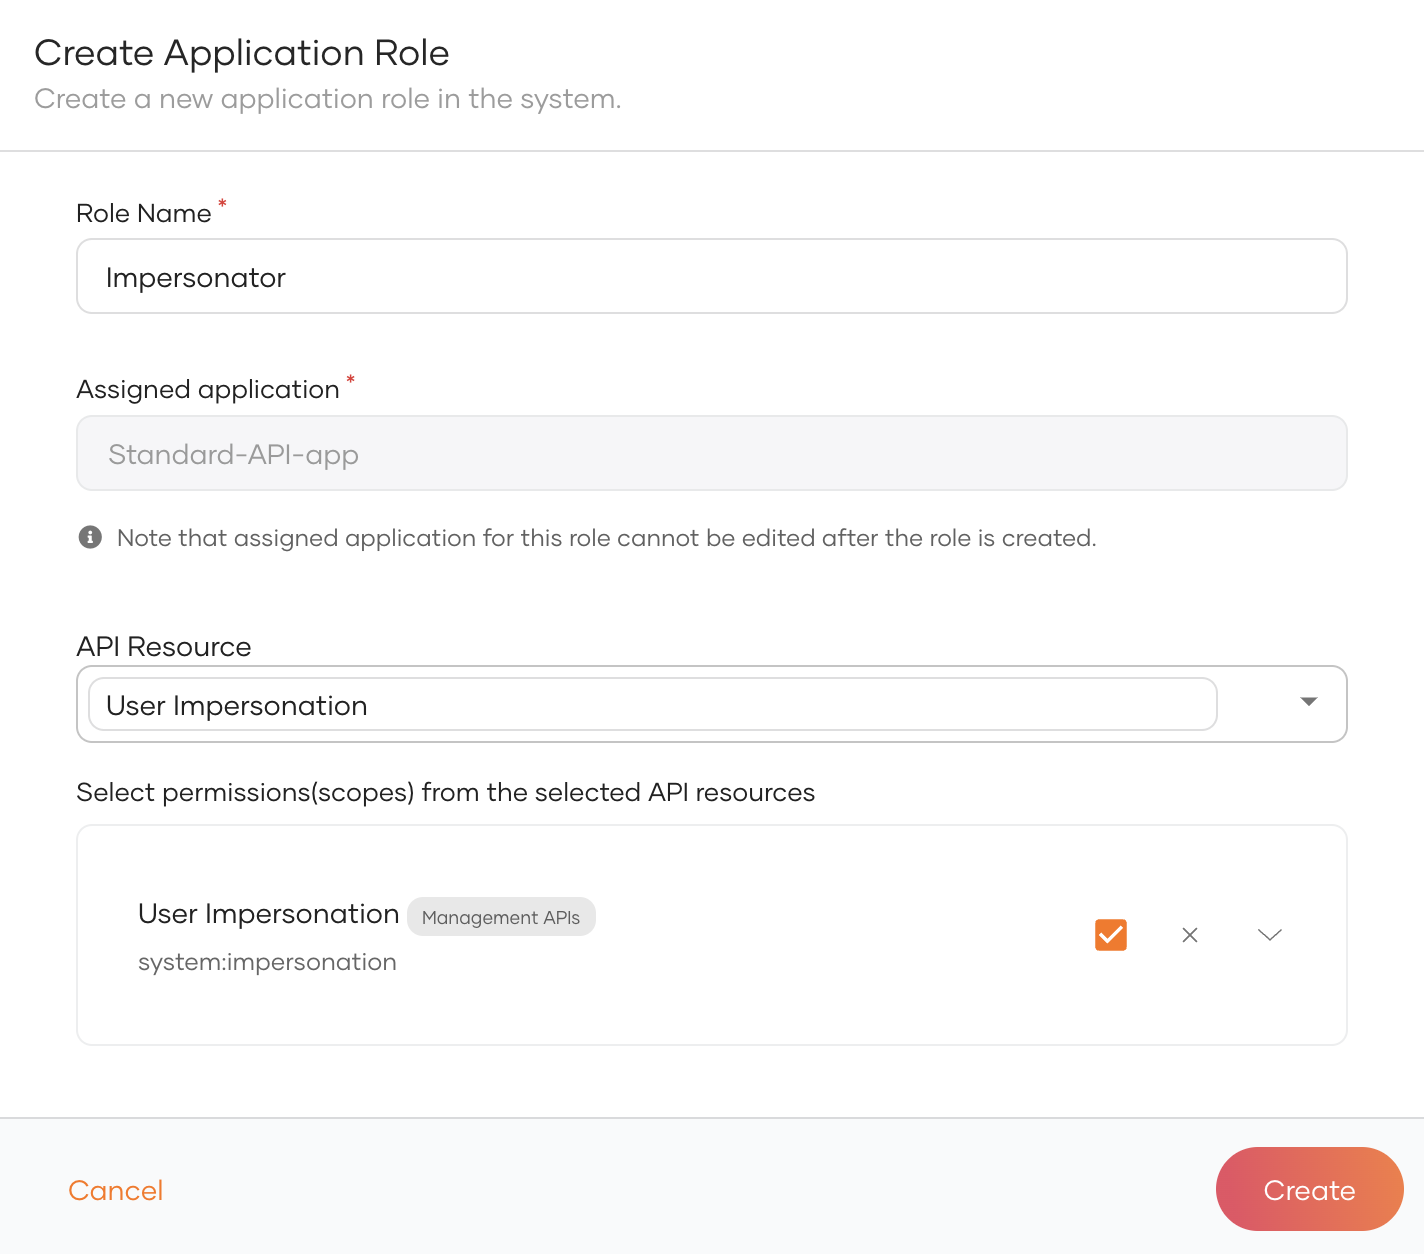
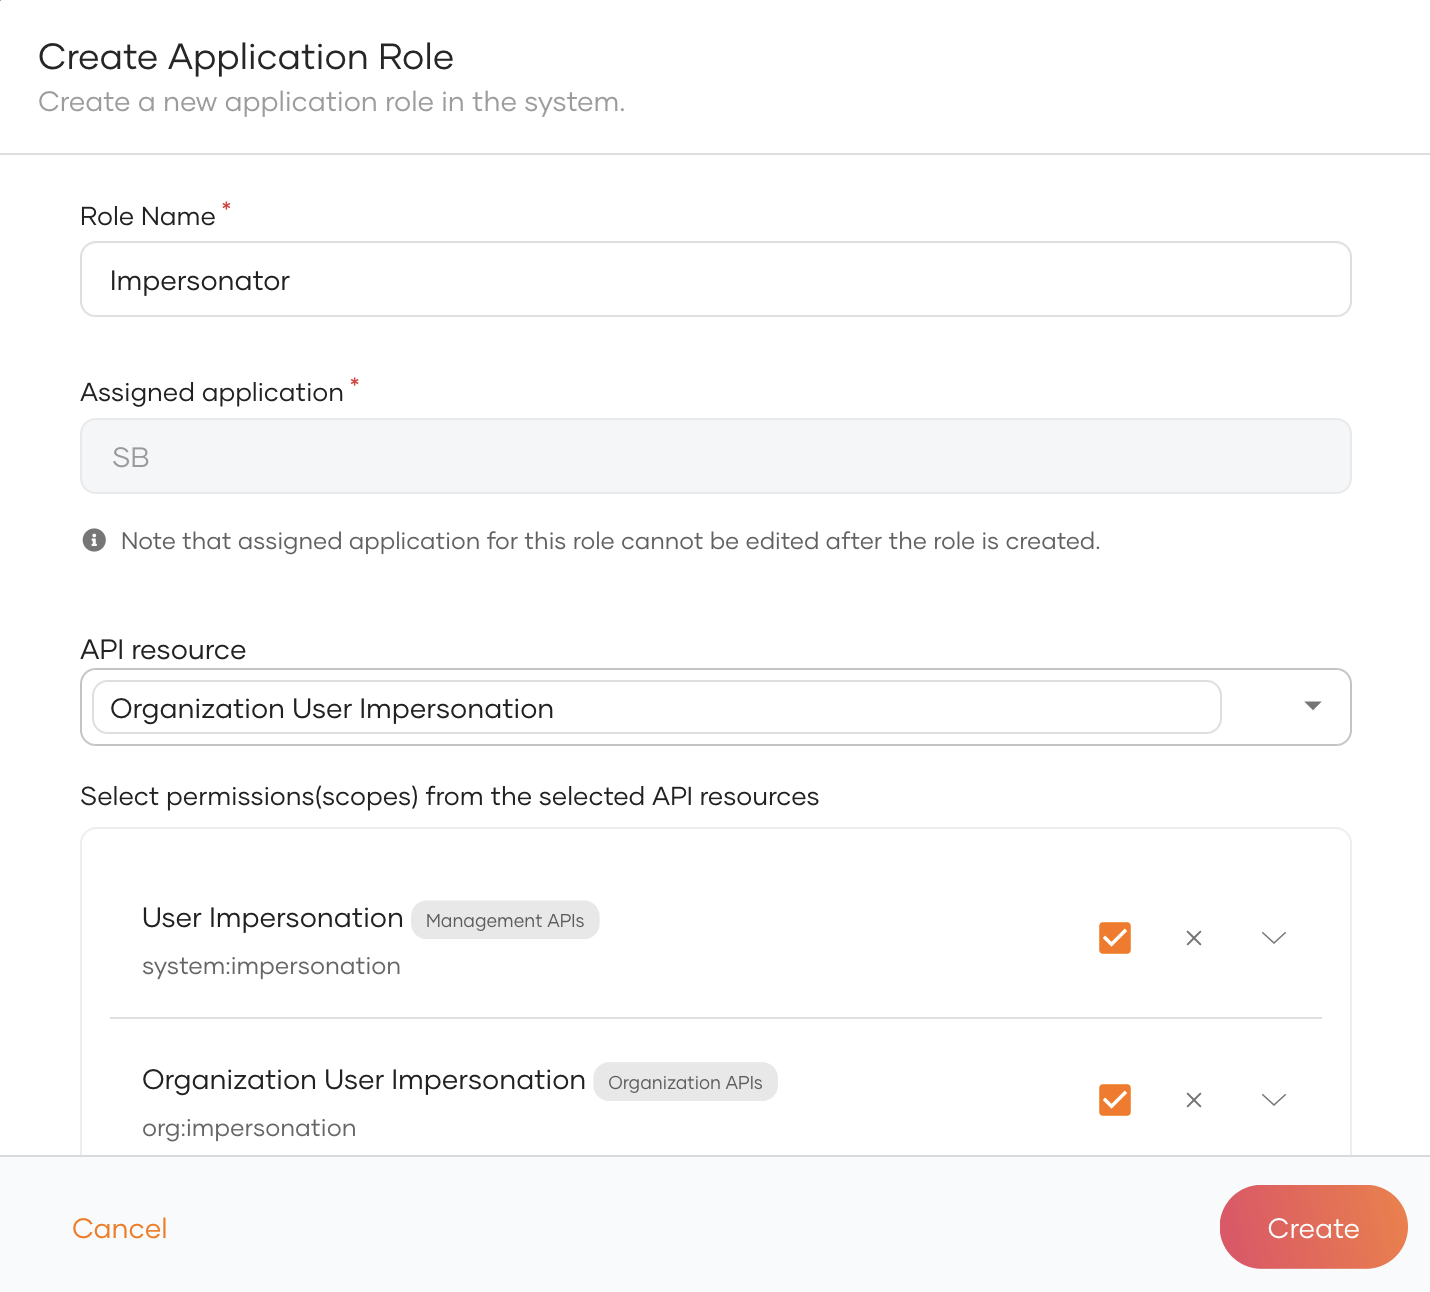
Add sub org impersonation docs.

diff --git a/en/includes/guides/authorization/user-impersonation/user-impersonation.md b/en/includes/guides/authorization/user-impersonation/user-impersonation.md
@@ -52,21 +52,89 @@ With the required permissions in place, the impersonator can now impersonate ano
 
     ![User Impersonate Button]({{base_path}}/assets/img/guides/authorization/impersonation/user-impersonate-button.png)
 
-4. You should now be logged into the **My Account** application as the impersonated user.
+4. You will log into **My Account** application as the impersonated user.
 
     ![Discoverable Applications]({{base_path}}/assets/img/guides/authorization/impersonation/impersonated-myaccount-no-applications.png)
 
 5. The **My Account** portal shows all business applications that the impersonator can access as the impersonated user. Launch any application to log in as that user.
 
-    !!! note "Display applications in the My Account portal"
+    !!! note "Display applications in the **My Account** portal"
 
-        To make an application discoverable in the My Account portal for impersonators, you need to both enable impersonation for the application and mark it as discoverable. See [Configure business applications for impersonation](#configure-business-applications-for-impersonation) for instructions.
+        To make an application discoverable in the **My Account** portal for impersonators, you need to both enable impersonation for the application and mark it as discoverable. See [Configure business applications for impersonation](#configure-business-applications-for-impersonation) for instructions.
+
+## Impersonate users in a sub organization
+
+Sub organization administrators also impersonate users within their organization by following these steps:
+
+1. Share **My Account** with the required organization.
+2. Assign users with Impersonation Access.
+
+    !!! note "Limitations"
+        Sub organization impersonation doesn't support the following use cases.
+        
+        - Invited parent org user impersonating a sub organization user.
+        - Sub organization user impersonating a invited parent org user.
+
+### Step 1: Share **My Account** with the required organization
+
+1. Login to the root organization on the {{product_name}} Console.
+
+2. Go to Applications and on the top of the page, select the Settings icon corresponding to My Account.
+
+3. Go to its Shared Access tab and do one of the following:
+    - Select Share with all organizations for the application to share with all existing organizations and new organizations you may create in the future.
+
+    - Select Share with only selected organizations and select the relevant organizations.
+
+4. Click Update to save the changes.
+
+### Step 2: Assign users with Impersonation Access
+
+Follow the steps below to assign the right permissions to the impersonator.
+
+1. Switch to the Sub organization.
+
+    1. Login to your organization (root) from the **{{product_name}} Console**.
+
+    2. On the {{product_name}} Console, go to Organization Management > Organizations.
+
+    3. Click the Switch icon next to the organization name to switch to its console.
+
+2. The impersonator should have the **Impersonator** role assigned. To do so,
+
+    1. On the {{product_name}} Sub Organization Console, go to **Users** > **Roles**.
+
+    2. Select the **Impersonator** application role that has **My Account** as its audience.
+
+    3. Go to the **Users** tab and add the user's name under **Assigned Users**.
+
+    4. Click **Update** to save the changes.
+
+3. The impersonator also needs administrator permissions for the Console. If this user doesn't already have them,
+
+    1. On the {{product_name}} Console, go to **Console Settings**.
+
+    2. Under the **Administrators** tab, click **Add Administrators**.
+
+    3. Enter the user's username and assign the **Administrator** role.
+
+    4. Click **Add**.
+
+### Step 3: Perform Impersonation
+
+1. Log in to the sub organization Console using the business user credentials.
+
+2. Go to the Users tab.
+
+3. Locate and select the user to impersonate.
+
+4. Click Impersonate User.
 
 ## Configure business applications for impersonation
 
 To let an impersonator access a business application as another user, you need to enable impersonation for that app. This section shows you how to set it up.
 
-### Step 1: Authorize application to use the impersonation API
+### Step 1: Allow application to use the impersonation API
 
 By following the steps below, you permit a business application to use the impersonation API.
 
@@ -74,7 +142,7 @@ By following the steps below, you permit a business application to use the imper
 
 2. Select your application and go to its **API Authorization** tab.
 
-3. Click **Authorize an API Resource** and do the following:
+3. Click **allow an API Resource** and do the following:
 
     1. Under **API Resource**, select **User Impersonation**.
 
@@ -82,7 +150,17 @@ By following the steps below, you permit a business application to use the imper
 
     3. Click **Finish**.
 
-    ![Authorize impersonation API]({{base_path}}/assets/img/guides/authorization/impersonation/api-authorization-impersonation.png){: width="600" style="display: block; margin: 0; border: 0.3px solid lightgrey;"}
+        ![Authorize impersonation API]({{base_path}}/assets/img/guides/authorization/impersonation/api-authorization-impersonation.png){: width="600" style="display: block; margin: 0; border: 0.3px solid lightgrey;"}
+
+    4. Enable user impersonation for sub organization user by registering ***Organization User Impersonation** API resource. (Optional)
+
+        1. Under **API Resource**, select **Organization User Impersonation**.
+
+        2. Under **Authorized Scopes**, select **User Impersonation Scope for Organizations**.
+
+        3. Click **Finish**.
+
+            ![Authorize org impersonation API]({{base_path}}/assets/img/guides/authorization/impersonation/org-api-authorization-impersonation.png){: width="600" style="display: block; margin: 0; border: 0.3px solid lightgrey;"}
 
 ### Step 2: Create an application role that permits impersonation
 
@@ -102,7 +180,7 @@ To do so,
 
     1. Provide a suitable role name.
 
-    2. Under **API Resource**, select **User Impersonation**.
+    2. Under **API Resource**, select **User Impersonation**. If planning to allow impersonation for sub organizations, select Organization User Impersonation resource as well.
 
     3. Select the checkbox corresponding to **User Impersonation** to select its scopes.
 
@@ -145,6 +223,10 @@ To make an application discoverable,
 2. Under the **General** tab, check the **Discoverable application** checkbox.
 
 3. Click **Update** to save the changes.
+
+### Step 4: Share Application with Sub Organization(Optional)
+
+To allow impersonating sub organization users, share the business applications with the relevant organization. Use the [documentation here]({{base_path}}/guides/organization-management/share-applications/#share-a-registered-application) to proceed with configuring.
 
 ## Access logs related to user impersonation
 

diff --git a/en/includes/guides/authorization/user-impersonation/user-impersonation-via-business-app.md b/en/includes/guides/authorization/user-impersonation/user-impersonation-via-business-app.md
@@ -46,7 +46,7 @@ To do so,
 
 3. Under **Role Audience**, select **Application**. This sets the audience of this role to the current application.
 
-3. Click **New Role** and do the following:
+4. Click **New Role** and do the following:
 
     1. Provide a suitable role name.
 
@@ -88,15 +88,15 @@ The subject token contains information about the impersonated user and used when
 
 1. On the {{product_name}} Console, go to **Applications** and select your applcation.
 
-1. Switch to the **Protocol** tab of your application.
+2. Switch to the **Protocol** tab of your application.
 
-2. Under **Allowed grant types**, select **Token Exchange**.
+3. Under **Allowed grant types**, select **Token Exchange**.
 
-3. Under **Access Token** > **Token type**, select **JWT**.
+4. Under **Access Token** > **Token type**, select **JWT**.
 
-4. Under **Subject Token**, select **Enable subject token response type**. Optionally, set the token expiry time in seconds.
+5. Under **Subject Token**, select **Enable subject token response type**. Optionally, set the token expiry time in seconds.
 
-5. Click **Update** to save the changes.
+6. Click **Update** to save the changes.
 
 ![Subject-Token-Config]({{base_path}}/assets/img/guides/authorization/impersonation/subject-token-config.png){: width="700" style="display: block; margin: 0; border: 0.3px solid lightgrey;"}
 
@@ -129,7 +129,6 @@ A subject token refers to a JSON Web Token (JWT) containing details about both t
     ```
 
 === "Example"
-    
     ```bash
     https://{{base_url_sample}}/oauth2/authorize?
       client_id=jVcW4oLn1Jjb2T94H4gtPV9z5Y0a
@@ -274,7 +273,6 @@ The decoded access token looks as follows:
 
 - The `act.sub` property holds the user ID of the impersonator. In the given exmaple, the `act.sub` property holds the value of `2d931c9d-876e-46c0-9aba-f34501879dfc`, the user ID of the impersonator.
 
- 
 ## Configure more impersonation options
 
 To learn how to check impersonation logs, notify users on impersonation and how to access child organizations as an impersonator, see the end of the [User impersonation via Console]({{base_path}}/guides/authorization/user-impersonation/via-console/) guide.

diff --git a/en/includes/guides/authorization/user-impersonation/index.md b/en/includes/guides/authorization/user-impersonation/index.md
@@ -2,6 +2,9 @@
 
 User impersonation enables an authorized user to act on behalf of another user. This feature proves useful for administrators or support personnel who need to perform tasks without requiring the credentials of the end user.
 
+!!! note "Limitations"
+      Impersonated tokens won't include any user claim values set during adaptive authentication.
+
 You can start user impersonation in two ways:
 
    1. [Via Console]({{base_path}}/guides/authorization/user-impersonation/via-console)
